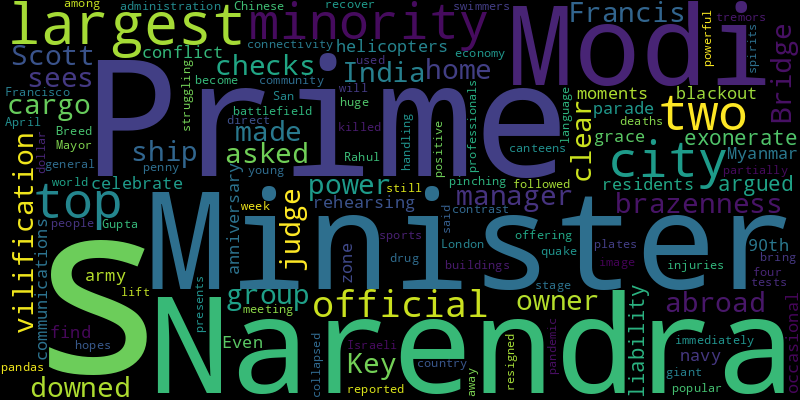
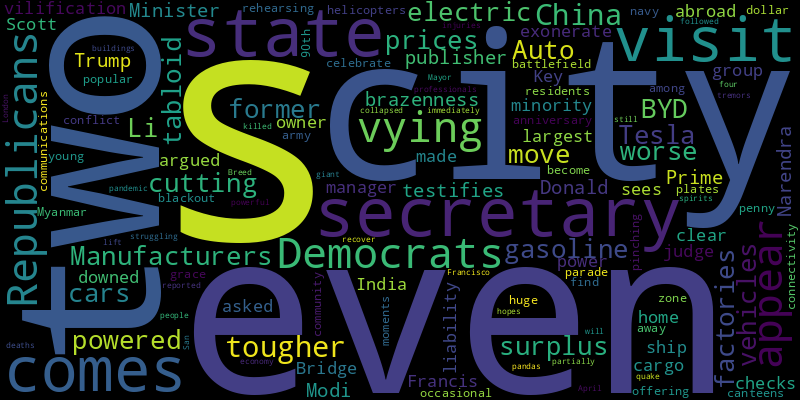
chore(bot): 🙈 auto commit

diff --git a/README.md b/README.md
@@ -2,32 +2,35 @@
 Auto RSS New York Times and Generate Word Cloud
 
 ## New York Times Global News
-* The United Nations and others said donors should resume support for UNRWA after a review found that Israel hadn’t backed up claims that many agency workers are members of terrorist groups.
+* The U.S. Senate approved a package that includes $26 billion in aid for Israel and for civilians in conflict zones, including Gaza, over objections from some Democrats opposed to Israel’s military campaign.
+* Israel says an assault on Gaza’s southernmost city is vital to dismantling Hamas and has proposed evacuating civilians. But more than a million people have taken refuge in the city.
+* For residents of Ukraine’s second-largest city, daily Russian attacks have escalated fears but have not brought life to a standstill.
+* Weapons from the aid package, considered “a lifeline” for Ukraine’s military, could be arriving on the battlefield within days.
+* A number of runaway army horses galloped through London on Wednesday morning, causing alarm and injuring pedestrians. All were eventually recovered.
+* The secretary of state’s visit comes as Democrats and Republicans are vying to appear tougher on China.
+* Having a team in the world’s richest sports competition might alter how people think of Luton, a place long dogged by a ramshackle image and links to extremism.
 * The United Nations says famine is likely to set in by May. For those living under Israel’s attacks and a crippling blockade, every day is a race against time.
 * Even through the Myanmar army’s communications blackout, residents of a conflict zone find moments of grace, and occasional connectivity, away from the battlefield.
-* The two helicopters were rehearsing for a parade to celebrate the navy’s 90th anniversary.
-* The outlay reached $2.4 trillion last year, a research group found, 6.8 percent up on 2022. Tensions in Asia and the Middle East also contributed.
-* Britain’s Parliament passed contentious legislation to allow the deportation of asylum seekers to the African country, a political victory for Prime Minister Rishi Sunak.
-* The direct language used against the country’s largest minority was a contrast to the image Prime Minister Narendra Modi presents on the world stage.
-* Sensitive naval data and a high-powered laser were obtained for China by three German citizens, according to prosecutors.
-* April is typically hot in South and Southeast Asia, but temperatures this month have been unusually high.
-* With a proposed sale stalled seven months after it was announced, a financially strapped Premier League team is pursuing a backup plan.
+* The measure, largely restating existing law, shows the prime minister’s skill at reassuring her right-wing base without sacrificing her increasingly mainstream image.
 
 ![Global](./global.png)
 ## New York Times United States News
-* Dozens were arrested Monday at N.Y.U. and Yale, but officials there and at campuses across the country are running out of options to corral protests that are expected to last the rest of the school year.
-* In a city still struggling to recover from the pandemic, Mayor London Breed hopes giant pandas will lift the spirits — and the economy — of San Francisco.
+* The move came about a year after the state’s deadliest school shooting and was opposed by some of the families whose children survived the attack.
+* The almost-complete ban on abortions in the state could go into effect as early as June 8, the state’s attorney general said.
+* Three men who were detained at the notorious prison in Iraq are suing a defense contractor, saying its interrogators told U.S. soldiers to “soften up” prisoners.
 * First, fish off the Florida Keys started swimming in spirals or upside down. Then, endangered sawfish started dying. Scientists are racing to figure out why.
-* Demonstrations outside the school gates have added to the upheaval, with protesters who appear unconnected to the university targeting Jewish students.
-* The Biden campaign has made abortion one of its top issues, as polling shows it is one of the few subjects in which voters place more trust in President Biden than Donald Trump.
-* Project Maven was meant to revolutionize modern warfare. But the conflict in Ukraine has underscored how difficult it is to get 21st-century data into 19th-century trenches.
-* Neighbors have multiple opportunities to raise objections, and some disputes can only be resolved by the city’s top governing body.
-* Democrats see an opening to win back rural Trump voters fed up with their groundwater being pumped by huge farms.
-* The owner and manager of the cargo ship that downed the Francis Scott Key Bridge asked a judge to exonerate them from liability. The city argued otherwise.
-* Pro-Palestinian protesters, many of whom are Jewish, prepared Seder dinners at college protest encampments, even as other Jewish students sought community in more traditional settings.
+* Polls show voters are angry about costs, like mortgages, and worried they will stay high if the president wins re-election.
+* The case, which could reverberate beyond Idaho to other states with abortion bans, is the second time in less than a month that the justices have heard an abortion case.
+* Federal trial judges in Texas and Idaho came to opposite conclusions in a battle between conservative states and the U.S. government over limits on abortion access.
+* The man, David Joseph Gietzen, was found guilty of committing five felonies during the January 2021 attack on the Capitol. He failed to show up in court.
+* The university, which asked the police to arrest protesters last week, said student protesters had agreed to remove some tents and continue talks.
+* Nikki Haley, who dropped out of the race more than a month ago, won more than 155,000 votes, an indication of Donald J. Trump’s difficulties in winning over her supporters.
 
 ![US](./usnews.png)
 ## New York Times Asia News
+* The secretary of state’s visit comes as Democrats and Republicans are vying to appear tougher on China.
+* Manufacturers like BYD, Tesla and Li Auto are cutting prices to move their electric cars. For gasoline-powered vehicles, the surplus of factories is even worse.
+* Also, a former tabloid publisher testifies against Donald Trump.
 * The brazenness of Prime Minister Narendra Modi’s vilification of India’s largest minority group made clear he sees few checks at home or abroad on his power.
 * The owner and manager of the cargo ship that downed the Francis Scott Key Bridge asked a judge to exonerate them from liability. The city argued otherwise.
 * The two helicopters were rehearsing for a parade to celebrate the navy’s 90th anniversary.
@@ -35,8 +38,5 @@ Auto RSS New York Times and Generate Word Cloud
 * The community canteens, offering huge plates for a dollar or two, have become popular among penny-pinching young professionals.
 * No injuries or deaths were immediately reported, but four buildings partially collapsed in the tremors, which followed a powerful April 3 quake that killed 17 people.
 * In a city still struggling to recover from the pandemic, Mayor London Breed hopes giant pandas will lift the spirits — and the economy — of San Francisco.
-* Also, a top Israeli general resigned.
-* The administration’s top drug official, Rahul Gupta, said he would bring up the handling of Chinese swimmers’ positive tests at a meeting of sports officials this week.
-* The direct language used against the country’s largest minority was a contrast to the image Prime Minister Narendra Modi presents on the world stage.
 
 ![Asian](./asian.png)
